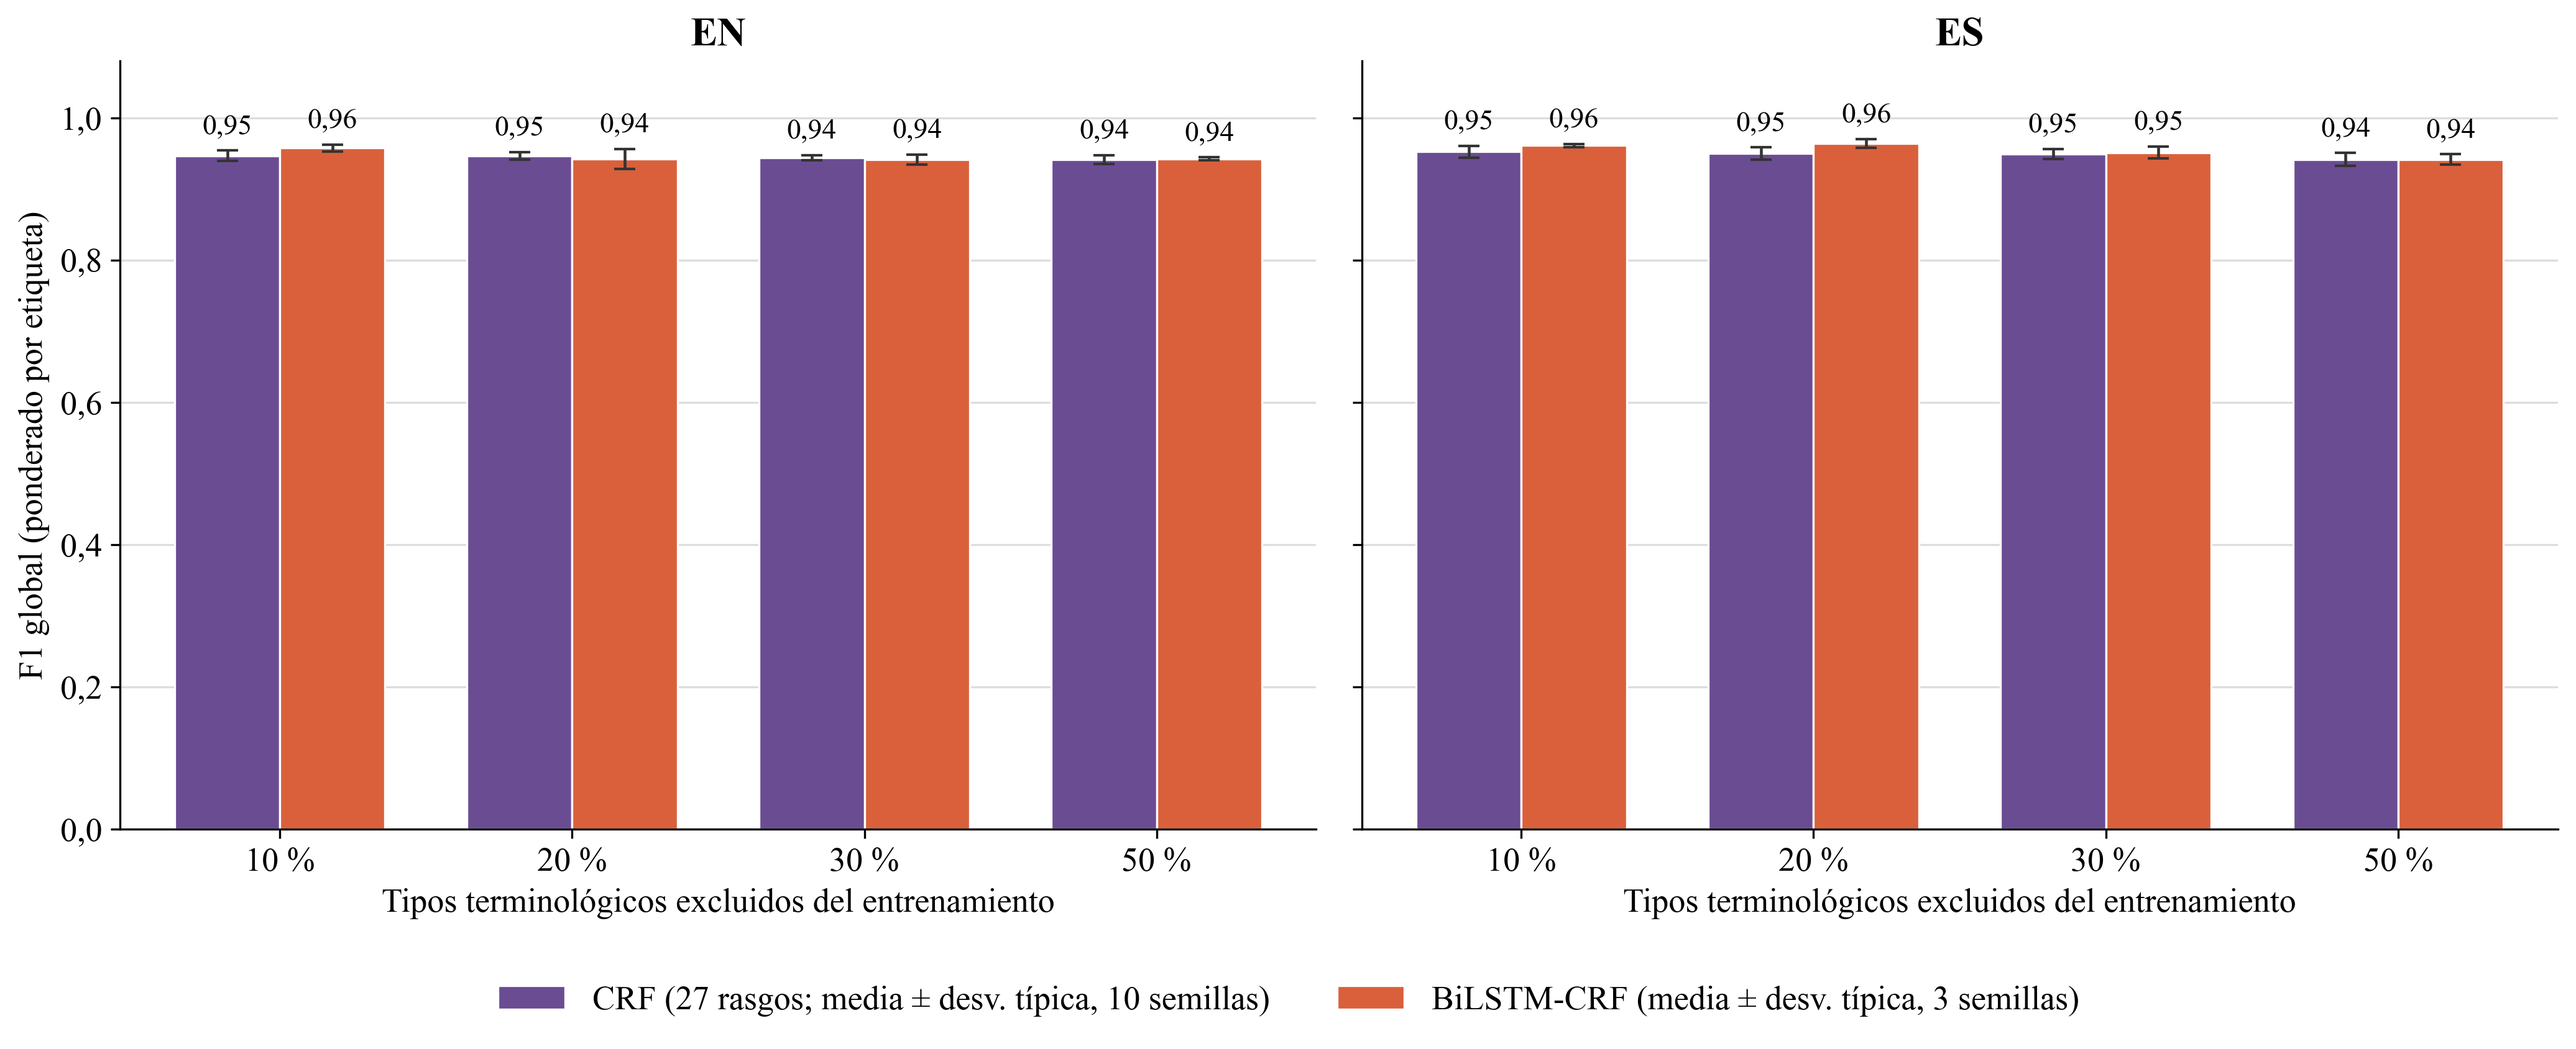
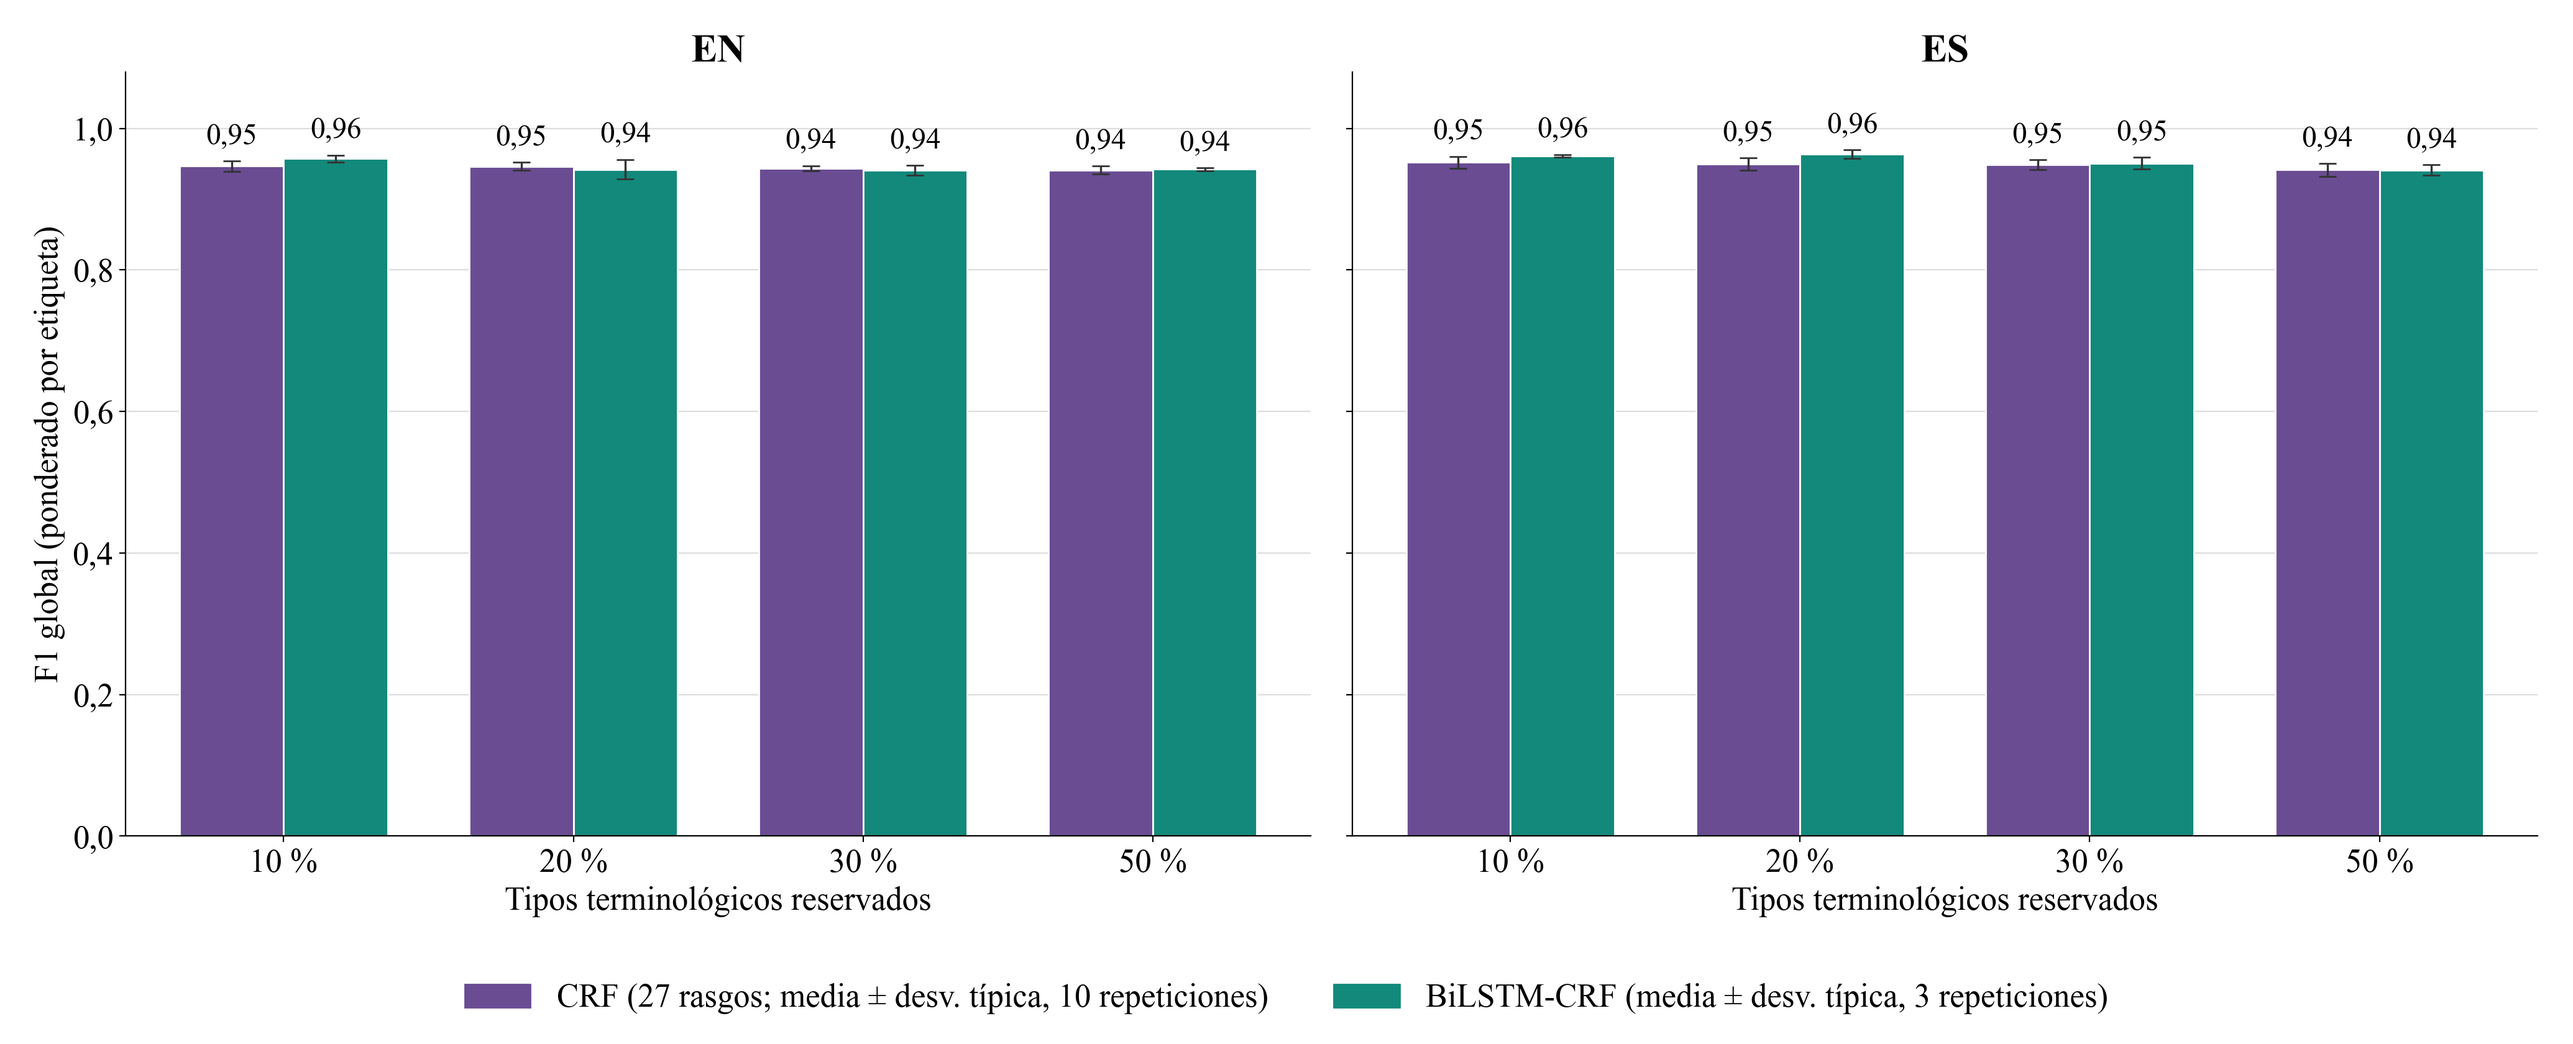
Figuras: paleta de la tesis y scripts actualizados
Sustituye las figuras de los capítulos 5, 6 y 7 por las versiones con la paleta
de la tesis (morado para el CRF, verde para el BiLSTM-CRF), retira la figura
comparativa de categorías, que ya no figura en la tesis, y añade los scripts que
generan cada figura.

diff --git a/08_figuras/figuras_distribucion.py b/08_figuras/figuras_distribucion.py
@@ -1,0 +1,107 @@
+"""
+Figuras de distribución del cap. 5 (saturación, Zipf log-log y 10 primeros
+términos) a partir de las salidas de distribucion_reanotacion.py.
+
+Uso:    python3 tesis/reanotacion_2026-10/figuras_distribucion.py
+Salida: tesis/maquetacion/images/{10_saturacion_terminologica,
+        11_zipf_general_vs_termino,12_zipf_visual_simple}.png
+"""
+import json
+from pathlib import Path
+
+import matplotlib.pyplot as plt
+import numpy as np
+import pandas as pd
+
+HERE = Path(__file__).resolve().parent
+ROOT = HERE.parents[1]
+IMG = ROOT / "tesis/maquetacion/images"
+COL = {"en": "#6A4C93", "es": "#12897B"}
+INK, MUTED, GRID = "#1f2937", "#6b7280", "#dddddd"
+plt.rcParams.update({"font.family": "Times New Roman", "font.size": 15,
+                     "axes.edgecolor": "#cccccc", "axes.labelcolor": INK,
+                     "xtick.color": MUTED, "ytick.color": MUTED, "axes.linewidth": 1.5})
+N_TOP = 10
+ENTRIES = {e["slug"]: e for e in json.load(open(ROOT / "colab_reanotacion/datos/glicor/entradas.json"))}
+
+
+def fmt(x, d=1):
+    return f"{x:.{d}f}".replace(".", ",")
+
+
+def miles(n):
+    return f"{int(n):,}".replace(",", " ")
+
+
+def style(ax):
+    for s in ("top", "right"):
+        ax.spines[s].set_visible(False)
+    ax.grid(axis="y", color=GRID, lw=1)
+    ax.set_axisbelow(True)
+
+
+def saturacion():
+    fig, ax = plt.subplots(figsize=(10, 5.7), dpi=224)
+    for lang in ("en", "es"):
+        s = pd.read_csv(HERE / f"saturacion_{lang}.csv")
+        ax.fill_between(s.pct_tokens, s.pct_tipos_p05, s.pct_tipos_p95, color=COL[lang], alpha=0.15, lw=0, step="post")
+        ax.plot(s.pct_tokens, s.pct_tipos_media, color=COL[lang], lw=2.5, label=lang.upper())
+        x80 = s.pct_tokens.values[np.searchsorted(s.pct_tipos_media.values, 80)]
+        ax.plot([x80, x80], [0, 80], ls=":", color=COL[lang], lw=1.3)
+        ax.text(x80 + 1, 3, f"{fmt(x80)} %", color=COL[lang], fontsize=14)
+    ax.axhline(80, color=GRID, lw=1)
+    ax.text(60, 76, "80 % del inventario", color=MUTED, fontsize=13)
+    ax.set(xlim=(0, 100), ylim=(0, 102), xlabel="% del corpus recorrido", ylabel="% de los tipos de término")
+    style(ax)
+    ax.legend(frameon=False, loc="lower right")
+    fig.tight_layout()
+    fig.savefig(IMG / "10_saturacion_terminologica.png")
+
+
+def zipf():
+    exp = pd.read_csv(HERE / "zipf_exponentes.csv").set_index("Lang")
+    fig, axes = plt.subplots(1, 2, figsize=(12.5, 5.4), dpi=224)
+    for ax, lang in zip(axes, ("en", "es")):
+        g = pd.read_csv(HERE / f"zipf_general_{lang}.csv")
+        t = pd.read_csv(HERE / f"zipf_termino_{lang}.csv")
+        ax.loglog(g.rango, g.frecuencia, color=COL["en"], lw=2, label="Vocabulario general")
+        ax.loglog(t.rango, t.frecuencia, color=COL["es"], lw=2.8, label="Inventario terminológico")
+        e = exp.loc[lang.upper()]
+        ax.set_title(f"{lang.upper()}  (α general = {fmt(e.Exponente_general, 2)} · "
+                     f"α términos = {fmt(e.Exponente_termino, 2)})", fontweight="bold", color=INK, fontsize=15)
+        ax.set_xlabel("Rango (log)")
+        style(ax)
+    axes[0].set_ylabel("Frecuencia (log)")
+    axes[0].legend(frameon=False, loc="upper right", fontsize=13)
+    fig.tight_layout()
+    fig.savefig(IMG / "11_zipf_general_vs_termino.png")
+
+
+def top12():
+    fig, axes = plt.subplots(1, 2, figsize=(14.5, 8.5), dpi=224)
+    for ax, lang in zip(axes, ("en", "es")):
+        t = pd.read_csv(HERE / f"zipf_termino_{lang}.csv")
+        head, rest = t.head(N_TOP), t.iloc[N_TOP:]
+        labels = [ENTRIES[s][f"term_{lang}"] for s in head.tipo]
+        labels.append(f"+{len(rest)} términos más\n({round(rest.frecuencia.mean())} apariciones de media cada uno)")
+        vals = list(head.frecuencia) + [rest.frecuencia.mean()]
+        y = np.arange(len(vals))[::-1]
+        ax.barh(y, vals, color=[COL[lang]] * N_TOP + ["#bbbbbb"], height=0.65)
+        for yi, v in zip(y, vals):
+            ax.text(v + max(vals) * 0.015, yi, miles(round(v)), va="center", fontsize=12, color=INK)
+        ax.set_yticks(y, labels, fontsize=13)
+        ax.set_xlim(0, max(vals) * 1.15)
+        ax.set_title(lang.upper(), fontweight="bold", color=INK)
+        ax.set_xlabel("Apariciones en el corpus")
+        for s in ("top", "right"):
+            ax.spines[s].set_visible(False)
+        ax.grid(axis="x", color=GRID)
+        ax.set_axisbelow(True)
+    fig.tight_layout()
+    fig.savefig(IMG / "12_zipf_visual_simple.png")
+
+
+if __name__ == "__main__":
+    saturacion()
+    zipf()
+    top12()

diff --git a/08_figuras/figuras_categorias_acter.py b/08_figuras/figuras_categorias_acter.py
@@ -1,0 +1,54 @@
+"""Figuras con la paleta de la tesis (morados y verdes):
+- images/fig_categorias_glosario.png (cap. 7): entradas de GLiCor por categoría (07_glicor/entries.json, 261 entradas).
+- images/13_acter_validacion.png (cap. 6): F1 de término en ACTER (Tabla tab:acter_results).
+Uso: python figuras_categorias_acter.py <carpeta_images>"""
+import sys
+import matplotlib
+matplotlib.use("Agg")
+import matplotlib.pyplot as plt
+from matplotlib.patches import Patch
+IMG = sys.argv[1]
+plt.rcParams.update({"font.family": "Times New Roman", "font.size": 19, "hatch.color": "white", "hatch.linewidth": 1.2})
+MORADO, VERDE = "#6A4C93", "#12897B"
+CATS = [("Metodología y\ndiseño\n(MET-DI)", "#0B5149"), ("Procesamiento\nlingüístico\n(PROC-LIN)", "#12897B"),
+        ("Estadística y\nléxico\n(EST-LEX)", "#4FA99C"), ("Tecnología y\nformatos\n(TEC-FOR)", "#8CCBC2"),
+        ("Recursos y\ncorpus\n(REC-COR)", "#3D2A5C"), ("Herramientas y\nsoftware\n(HER-SOFT)", "#6A4C93"),
+        ("Estándares y\nformatos\ntécnicos", "#A23E68"), ("Anotación y\nprocesamiento\nlingüístico", "#B9A6D9")]
+X = [0, 1, 2, 3, 4.6, 5.6, 6.6, 7.6]
+coma = lambda v, d: f"{v:.{d}f}".replace(".", ",")
+def ejes(ax, ylabel, ymax):
+    ax.set_xticks(X); ax.set_xticklabels([c for c, _ in CATS], fontsize=16)
+    ax.set_ylabel(ylabel); ax.set_ylim(0, ymax)
+    ax.axvline(3.8, color="#999", ls=":", lw=1.5)
+    for sp in ("top", "right"): ax.spines[sp].set_visible(False)
+    ax.grid(axis="y", color="#e5e5e5"); ax.set_axisbelow(True)
+    ax.text(1.5, -0.30, "TÉRMINOS", transform=ax.get_xaxis_transform(), ha="center", fontweight="bold", fontsize=18)
+    ax.text(6.1, -0.30, "ENTIDADES", transform=ax.get_xaxis_transform(), ha="center", fontweight="bold", fontsize=18)
+# --- cap. 7: glosario
+G = [56, 39, 52, 4, 58, 42, 9, 1]
+fig, ax = plt.subplots(figsize=(18.3, 8.6))
+for x, (_, col), n in zip(X, CATS, G):
+    v = 100 * n / 261
+    ax.bar(x, v, 0.7, color=col, edgecolor="white")
+    ax.text(x, v + 0.4, f"{coma(v, 1)} %\n(n = {n})", ha="center", va="bottom", fontsize=15)
+ejes(ax, "% sobre el total de entradas", 30)
+fig.tight_layout(); fig.savefig(f"{IMG}/fig_categorias_glosario.png", dpi=200); plt.close(fig)
+# --- cap. 6: ACTER
+res = {"crf": [0.805, 0.784, 0.772, 0.717], "bil": [0.868, 0.849, 0.785, 0.754]}
+lodo = {"crf": [0.374, 0.478, 0.137, 0.528], "bil": [0.333, 0.204, 0.189, 0.160]}
+fig, axes = plt.subplots(1, 2, figsize=(20.7, 8.4), sharey=True); w = 0.36
+for ax, d, labels, xl, tit in ((axes[0], res, ["10 %", "20 %", "30 %", "50 %"], "Tipos terminológicos reservados", "Reserva de tipos"),
+                               (axes[1], lodo, ["corp\n(corrupción)", "equi\n(doma clásica)", "htfl\n(insuf. cardíaca)", "wind\n(eólica)"], "Dominio de ACTER evaluado", "LODO (dominio excluido)")):
+    for vals, col, dx in ((d["crf"], MORADO, -w/2), (d["bil"], VERDE, w/2)):
+        xs = [i + dx for i in range(4)]
+        ax.bar(xs, vals, w, color=col, edgecolor="white", linewidth=1.5)
+        for x, v in zip(xs, vals): ax.text(x, v + 0.015, coma(v, 3), ha="center", va="bottom", fontsize=16)
+    ax.set_title(tit, fontweight="bold", fontsize=22); ax.set_xticks(range(4)); ax.set_xticklabels(labels)
+    ax.set_xlabel(xl); ax.set_ylim(0, 1.08); ax.set_yticks([0, .2, .4, .6, .8, 1.0])
+    ax.set_yticklabels([coma(v, 1) for v in [0, .2, .4, .6, .8, 1.0]])
+    ax.grid(axis="y", color="#ddd"); ax.set_axisbelow(True)
+    for sp in ("top", "right"): ax.spines[sp].set_visible(False)
+axes[0].set_ylabel("F1 (específico de término)")
+fig.legend(handles=[Patch(color=MORADO, label="CRF (27 rasgos)"), Patch(color=VERDE, label="BiLSTM-CRF")], loc="lower center", ncol=2, frameon=False, fontsize=19)
+fig.tight_layout(rect=(0, 0.08, 1, 1)); fig.savefig(f"{IMG}/13_acter_validacion.png", dpi=200); plt.close(fig)
+print("ok")

diff --git a/08_figuras/figuras_modelos.py b/08_figuras/figuras_modelos.py
@@ -22,7 +22,7 @@ ROOT = Path(__file__).resolve().parents[2]
 RES = ROOT / "colab_reanotacion/resultados"
 IMG = ROOT / "tesis/maquetacion/images"
 
-MORADO, CORAL = "#6A4C93", "#D9603B"
+MORADO, CORAL = "#6A4C93", "#12897B"  # CORAL = verde de la paleta de la tesis
 if any("Times New Roman" in f.name for f in font_manager.fontManager.ttflist):
     plt.rcParams["font.family"] = "Times New Roman"
 plt.rcParams.update({"font.size": 13, "axes.spines.top": False, "axes.spines.right": False})

diff --git a/06_experimentos/scripts/figuras_cap6_barras.py b/06_experimentos/scripts/figuras_cap6_barras.py
@@ -8,7 +8,7 @@ matplotlib.use("Agg")
 import matplotlib.pyplot as plt
 R, IMG = sys.argv[1], sys.argv[2]
 plt.rcParams.update({"font.family": "Times New Roman", "font.size": 19})
-MORADO, CORAL = "#6A4C93", "#D9603B"
+MORADO, CORAL = "#6A4C93", "#12897B"  # CORAL = verde de la paleta de la tesis
 def cargar(f, col):
     d = defaultdict(list)
     for r in csv.DictReader(open(f, encoding="utf-8")):

diff --git a/08_figuras/README.md b/08_figuras/README.md
@@ -1,9 +1,16 @@
 # Figuras
 
-Figuras de datos de los capítulos 5, 6 y 7 en alta resolución.
+Figuras de datos de los capítulos 5, 6 y 7 en alta resolución, con la paleta de la tesis (morado para el CRF y verde para el BiLSTM-CRF).
 
-- Capítulo 5: `fig_categorias_comparativa.png`, `10_saturacion_terminologica.png`, `11_zipf_general_vs_termino.png`, `12_zipf_visual_simple.png`.
+- Capítulo 5: `10_saturacion_terminologica.png`, `11_zipf_general_vs_termino.png`, `12_zipf_visual_simple.png`.
 - Capítulo 6: `01_holdout_tecla_barras.png` (F1 global), `10_holdout_termino_barras.png` (F1 de término), `confusion_matrices.png`, `13_acter_validacion.png`.
 - Capítulo 7: `fig_categorias_glosario.png`.
 
-`figuras_modelos.py` genera las tres primeras figuras del capítulo 6 a partir de `06_experimentos/resultados/`.
+## Scripts
+
+Tal como se ejecutaron en el repositorio de trabajo de la tesis (las rutas remiten a él):
+
+- `figuras_distribucion.py`: las tres figuras del capítulo 5, a partir de las salidas del análisis de distribución (recogidas en `05_distribucion/`).
+- `figuras_modelos.py`: `confusion_matrices.png`, a partir de `06_experimentos/resultados/`.
+- `figuras_categorias_acter.py`: `fig_categorias_glosario.png` y `13_acter_validacion.png`.
+- Las dos figuras de barras del capítulo 6 las genera `06_experimentos/scripts/figuras_cap6_barras.py`.
